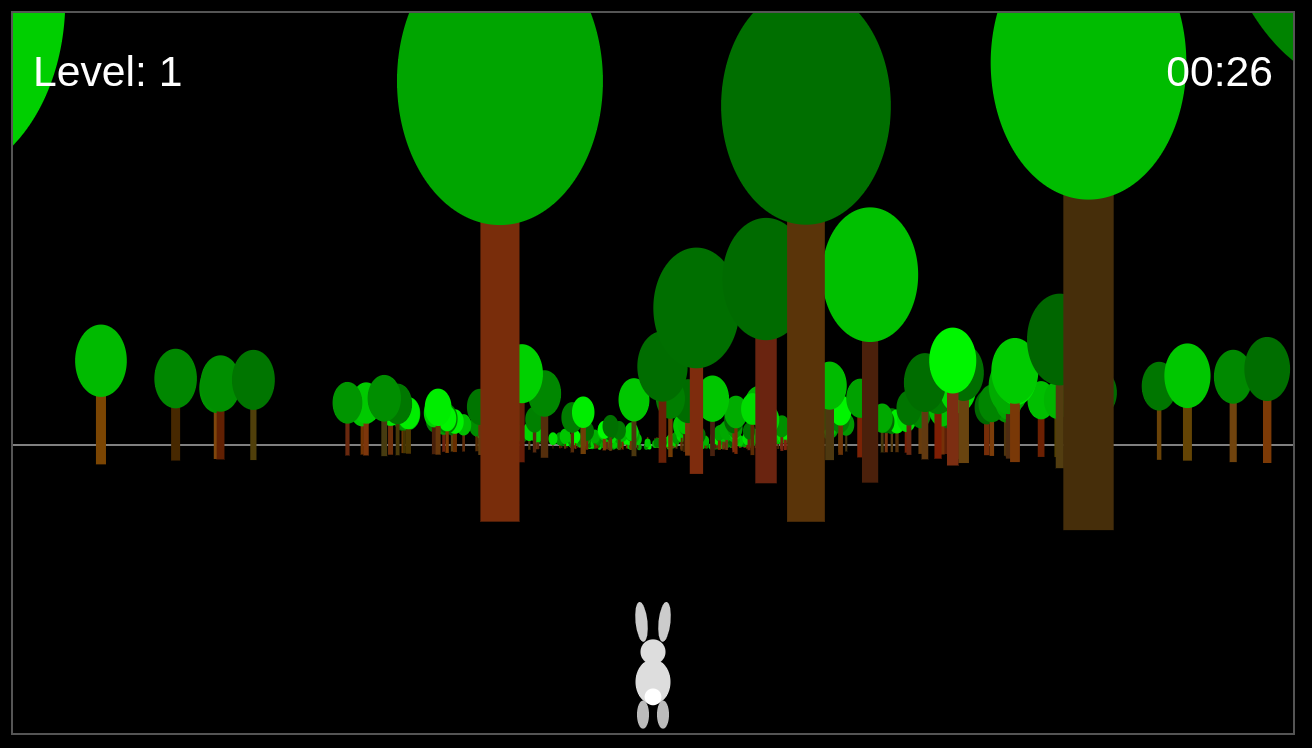
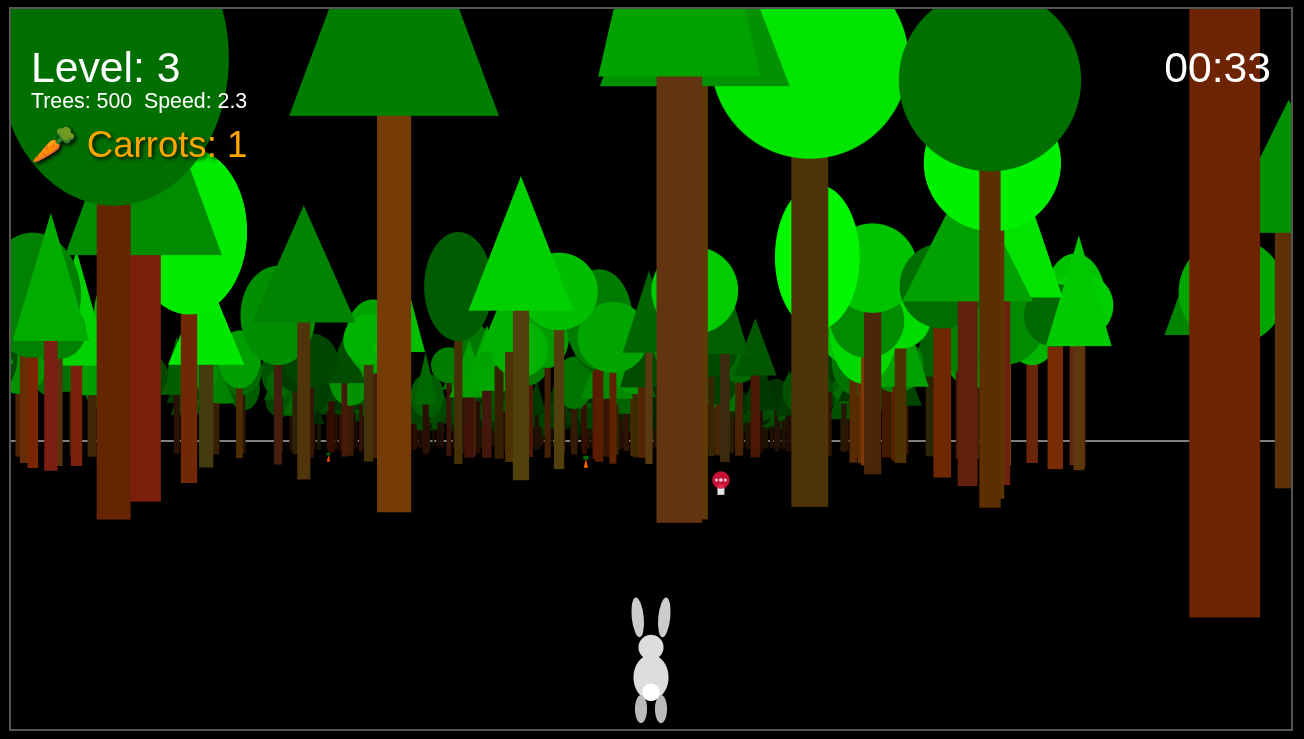
added mushrums

diff --git a/src/scene/GameScene.js b/src/scene/GameScene.js
@@ -1,12 +1,14 @@
 import { Player } from '../entities/Player.js';
 import { Tree } from '../entities/Tree.js';
 import { Carrot } from '../entities/Carrot.js';
+import { Mushroom } from '../entities/Mushroom.js';
 
 export class GameScene {
     constructor(game) {
         this.game = game;
         this.entities = [];
         this.player = new Player(0, 0);
+        this.mushroomNotification = null;
     }
 
     init() {
@@ -16,6 +18,7 @@ export class GameScene {
         this.game.state.isPaused = false;
         this.game.state.treeCount = this.game.config.TREE_INITIAL_COUNT;
         this.game.state.carrotsCollected = 0;
+        this.mushroomNotification = null;
 
         // наполняем стартовый лес деревьями
         this.entities = [];
@@ -26,6 +29,11 @@ export class GameScene {
         // добавляем начальные морковки
         for (let i = 0; i < 10; i++) {
             this.entities.push(this.#spawnCarrot());
+        }
+        
+        // добавляем начальные мухоморы (реже чем морковки)
+        for (let i = 0; i < 3; i++) {
+            this.entities.push(this.#spawnMushroom());
         }
     }
 
@@ -58,12 +66,34 @@ export class GameScene {
         return new Carrot(carrotX, carrotZ);
     }
 
+    #spawnMushroom() {
+        const centerX = this.game.camera.playerX || 0;
+        const forestHalfWidth = this.game.config.FOREST_HALF_WIDTH || 3000;
+    
+        // X: случайная позиция в пределах леса
+        const xOffset = (Math.random() - 0.5) * 2;
+        const mushroomX = centerX + xOffset * forestHalfWidth * 0.8;
+    
+        // Z: дальше от кролика, чтобы было время собраться
+        const mushroomZ = 500 + Math.random() * 800;
+    
+        return new Mushroom(mushroomX, mushroomZ);
+    }
+
     update(deltaTime) {
         this.#checkInput();
         if (this.game.state.isPaused) {
             return
         };
         this.game.state.update(deltaTime);
+
+        // обновляем таймер уведомления о мухоморе
+        if (this.mushroomNotification) {
+            this.mushroomNotification.elapsed += deltaTime;
+            if (this.mushroomNotification.elapsed >= this.mushroomNotification.duration) {
+                this.mushroomNotification = null;
+            }
+        }
 
         this.#updateLevel();
         this.#updateEntities(deltaTime);
@@ -77,6 +107,7 @@ export class GameScene {
         this.#drawTime();
         this.#drawLevel();
         this.#drawCarrotCount();
+        this.#drawMushroomNotification();
         this.#drawPlayer();
     }
 
@@ -128,6 +159,31 @@ export class GameScene {
                 color: '#FFA500',
                 font: `${carrotSize}px Arial`,
                 align: 'left',
+                shadow: true
+            }
+        );
+    }
+
+    #drawMushroomNotification() {
+        if (!this.mushroomNotification) {
+            return;
+        }
+
+        const notificationSize = this.game.config.CANVAS_WIDTH / 25;
+        const x = this.game.config.CANVAS_WIDTH / 2;
+        const y = 100;
+
+        // Вычисляем прозрачность на основе времени
+        const alpha = Math.max(0, 1 - (this.mushroomNotification.elapsed / this.mushroomNotification.duration));
+        
+        this.game.renderer.drawText(
+            this.mushroomNotification.text,
+            x,
+            y,
+            {
+                color: `rgba(220, 20, 60, ${alpha})`, // красный цвет с прозрачностью
+                font: `${notificationSize}px Arial`,
+                align: 'center',
                 shadow: true
             }
         );
@@ -200,6 +256,12 @@ export class GameScene {
         if (carrotCount < 5 && Math.random() < 0.02) { // 2% шанс каждый кадр
             this.entities.push(this.#spawnCarrot());
         }
+        
+        // добавляем новые мухоморы реже чем морковки
+        let mushroomCount = this.entities.filter(e => e instanceof Mushroom).length;
+        if (mushroomCount < 2 && Math.random() < 0.005) { // 0.5% шанс каждый кадр (в 4 раза реже)
+            this.entities.push(this.#spawnMushroom());
+        }
     }
 
     #drawTime() {
@@ -244,6 +306,13 @@ export class GameScene {
                         break;
                     case 'carrot':
                         this.game.renderer.drawCarrot(
+                            p.x,
+                            p.y,
+                            p.scale
+                        );
+                        break;
+                    case 'mushroom':
+                        this.game.renderer.drawMushroom(
                             p.x,
                             p.y,
                             p.scale
@@ -335,6 +404,40 @@ export class GameScene {
                 return;
             }
         }
+        
+        // проверка столкновений с мухоморами
+        for (let i = this.entities.length - 1; i >= 0; i--) {
+            const entity = this.entities[i];
+            if (!(entity instanceof Mushroom)) {
+                continue;
+            }
+
+            if (!entity.collider) {
+                continue;
+            }
+
+            if (entity.z <= 0 || entity.z > 300) {
+                continue;
+            }
+
+            const p = this.game.camera.project(entity);
+            
+            if (!p || p.scale < 0.05) {
+                continue;
+            }
+
+            const mushroomRadius = (entity.collider.width / 2) * p.scale;
+
+            const dx = p.x - playerX;
+            const dy = p.y - playerY;
+
+            const r = playerRadius + mushroomRadius;
+
+            if (dx * dx + dy * dy < r * r) {
+                this.#onMushroomCollected(entity, i);
+                return;
+            }
+        }
     }
 
     #onPlayerHit(tree) {
@@ -358,6 +461,21 @@ export class GameScene {
         this.game.state.carrotsCollected++;
         
         // удаляем морковку из массива сущностей
+        this.entities.splice(index, 1);
+    }
+
+    #onMushroomCollected(mushroom, index) {
+        // снижаем скорость на 0.3
+        this.game.speed = Math.max(0.5, this.game.speed - 0.3); // минимальная скорость 0.5
+        
+        // активируем уведомление о снижении скорости
+        this.mushroomNotification = {
+            text: '🍄 Speed Reduced!',
+            duration: 3.0, // 3 секунды
+            elapsed: 0
+        };
+        
+        // удаляем мухомор из массива сущностей
         this.entities.splice(index, 1);
     }
 }

diff --git a/src/render/Renderer.js b/src/render/Renderer.js
@@ -259,4 +259,52 @@ export class Renderer {
 
         this.ctx.restore();
     }
+
+    drawMushroom(x, y, scale) {
+        const capWidth = 20 * scale;
+        const capHeight = 10 * scale;
+        const stemWidth = 8 * scale;
+        const stemHeight = 12 * scale;
+
+        // Вычисляем фактор затемнения на основе расстояния
+        const darknessFactor = Math.max(0.4, Math.min(1, scale * 2));
+
+        this.ctx.save();
+
+        // Рисуем ножку гриба
+        const stemColor = `rgba(255, 255, 255, ${0.9 * darknessFactor})`;
+        this.ctx.fillStyle = stemColor;
+        
+        this.ctx.beginPath();
+        this.ctx.rect(x - stemWidth / 2, y, stemWidth, stemHeight);
+        this.ctx.fill();
+
+        // Рисуем шляпку гриба (красная с белыми точками)
+        const capColor = `rgba(220, 20, 60, ${0.9 * darknessFactor})`;
+        this.ctx.fillStyle = capColor;
+        
+        this.ctx.beginPath();
+        this.ctx.ellipse(x, y - capHeight / 2, capWidth / 2, capHeight, 0, 0, Math.PI * 2);
+        this.ctx.fill();
+
+        // Рисуем белые точки на шляпке
+        const dotColor = `rgba(255, 255, 255, ${0.8 * darknessFactor})`;
+        this.ctx.fillStyle = dotColor;
+        
+        // Центральная точка
+        this.ctx.beginPath();
+        this.ctx.arc(x, y - capHeight / 2, 2 * scale, 0, Math.PI * 2);
+        this.ctx.fill();
+        
+        // Боковые точки
+        this.ctx.beginPath();
+        this.ctx.arc(x - capWidth / 4, y - capHeight / 2, 1.5 * scale, 0, Math.PI * 2);
+        this.ctx.fill();
+        
+        this.ctx.beginPath();
+        this.ctx.arc(x + capWidth / 4, y - capHeight / 2, 1.5 * scale, 0, Math.PI * 2);
+        this.ctx.fill();
+
+        this.ctx.restore();
+    }
 }

diff --git a/src/entities/Mushroom.js b/src/entities/Mushroom.js
@@ -1,0 +1,14 @@
+import { Entity } from './Entity.js';
+
+export class Mushroom extends Entity {
+    constructor(x, z) {
+        super(x, z);
+        this.renderable = {
+            type: 'mushroom'
+        };
+        this.collider = {
+            width: 25,
+            height: 25
+        };
+    }
+}
